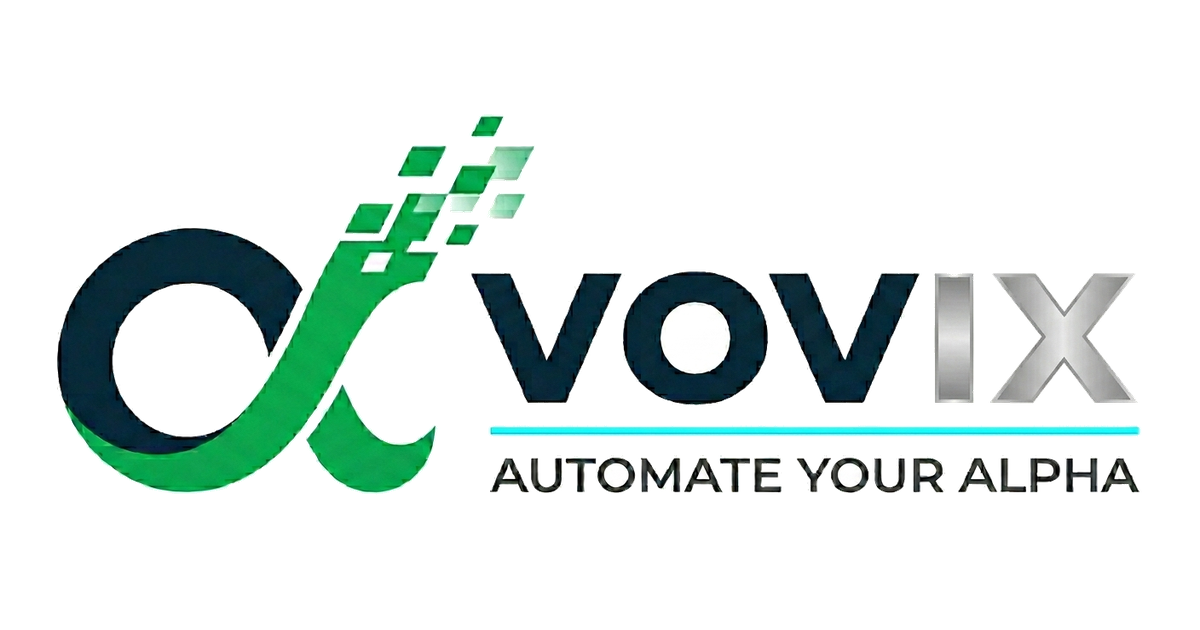
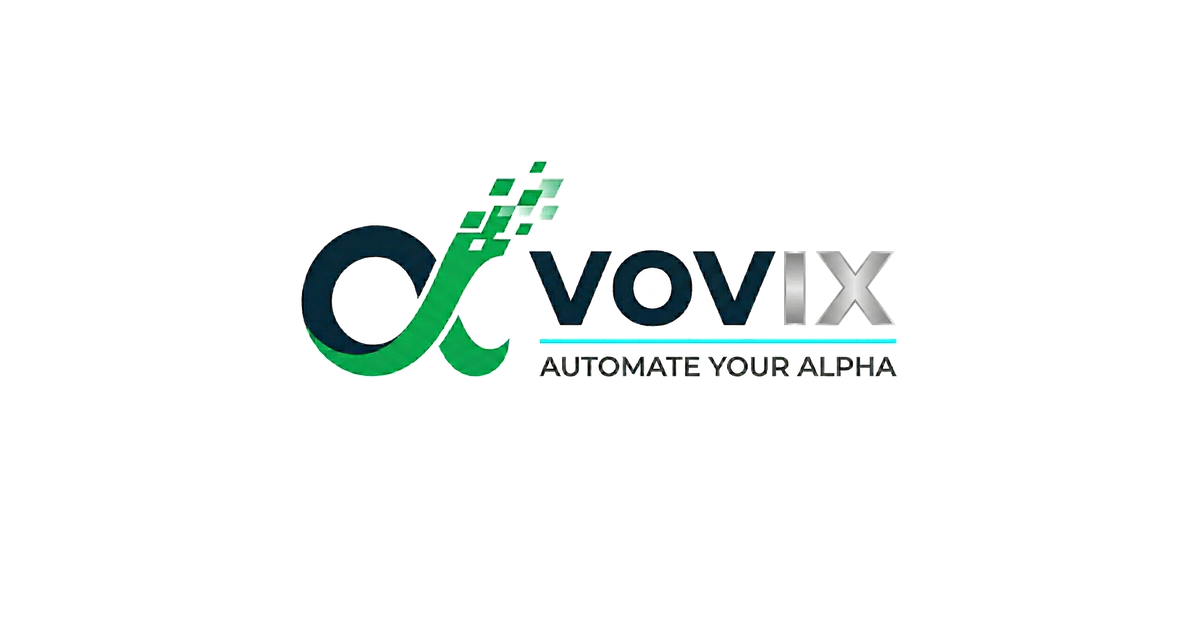
fix(seo): update social share image to 1200x630 with safe padding.
Point og/twitter image tags to the new og-image asset and adjust dimensions so logo is not clipped in URL previews.

Changed region(s): [[0.0308, 0.181, 0.9558, 0.7841], [0.4008, 0.7238, 0.9558, 0.7841]]

diff --git a/index.html b/index.html
@@ -11,16 +11,16 @@
     <meta property="og:type" content="website" />
     <meta property="og:site_name" content="Vovix" />
     <meta property="og:url" content="https://www.vovix.in/" />
-    <meta property="og:image" content="https://www.vovix.in/assets/logo-512.png" />
-    <meta property="og:image:secure_url" content="https://www.vovix.in/assets/logo-512.png" />
+    <meta property="og:image" content="https://www.vovix.in/assets/og-image.png" />
+    <meta property="og:image:secure_url" content="https://www.vovix.in/assets/og-image.png" />
     <meta property="og:image:type" content="image/png" />
-    <meta property="og:image:width" content="512" />
-    <meta property="og:image:height" content="512" />
+    <meta property="og:image:width" content="1200" />
+    <meta property="og:image:height" content="630" />
     <meta property="og:image:alt" content="Vovix Private Limited" />
     <meta name="twitter:card" content="summary_large_image" />
     <meta name="twitter:title" content="Vovix | Data provider &amp; automation agency" />
     <meta name="twitter:description" content="Web crawling at scale, intelligent OCR, WhatsApp-native stock research, and custom automation pipelines." />
-    <meta name="twitter:image" content="https://www.vovix.in/assets/logo-512.png" />
+    <meta name="twitter:image" content="https://www.vovix.in/assets/og-image.png" />
     <title>Vovix | Data Provider &amp; Automation Agency</title>
     <link rel="canonical" href="https://www.vovix.in/" />
     <link rel="icon" href="/assets/favicon.svg" type="image/svg+xml" />

diff --git a/legal/terms.html b/legal/terms.html
@@ -10,16 +10,16 @@
     <meta property="og:type" content="website" />
     <meta property="og:url" content="https://www.vovix.in/legal/terms.html" />
     <meta property="og:site_name" content="Vovix" />
-    <meta property="og:image" content="https://www.vovix.in/assets/logo-512.png" />
-    <meta property="og:image:secure_url" content="https://www.vovix.in/assets/logo-512.png" />
+    <meta property="og:image" content="https://www.vovix.in/assets/og-image.png" />
+    <meta property="og:image:secure_url" content="https://www.vovix.in/assets/og-image.png" />
     <meta property="og:image:type" content="image/png" />
-    <meta property="og:image:width" content="512" />
-    <meta property="og:image:height" content="512" />
+    <meta property="og:image:width" content="1200" />
+    <meta property="og:image:height" content="630" />
     <meta property="og:image:alt" content="Vovix Private Limited" />
     <meta name="twitter:card" content="summary_large_image" />
     <meta name="twitter:title" content="Terms of use | Vovix Private Limited" />
     <meta name="twitter:description" content="Terms of use | Vovix Private Limited corporate website." />
-    <meta name="twitter:image" content="https://www.vovix.in/assets/logo-512.png" />
+    <meta name="twitter:image" content="https://www.vovix.in/assets/og-image.png" />
     <title>Terms of use | Vovix Private Limited</title>
     <link rel="canonical" href="https://www.vovix.in/legal/terms.html" />
     <link rel="icon" href="/assets/favicon.svg" type="image/svg+xml" />

diff --git a/legal/privacy.html b/legal/privacy.html
@@ -10,16 +10,16 @@
     <meta property="og:type" content="website" />
     <meta property="og:url" content="https://www.vovix.in/legal/privacy.html" />
     <meta property="og:site_name" content="Vovix" />
-    <meta property="og:image" content="https://www.vovix.in/assets/logo-512.png" />
-    <meta property="og:image:secure_url" content="https://www.vovix.in/assets/logo-512.png" />
+    <meta property="og:image" content="https://www.vovix.in/assets/og-image.png" />
+    <meta property="og:image:secure_url" content="https://www.vovix.in/assets/og-image.png" />
     <meta property="og:image:type" content="image/png" />
-    <meta property="og:image:width" content="512" />
-    <meta property="og:image:height" content="512" />
+    <meta property="og:image:width" content="1200" />
+    <meta property="og:image:height" content="630" />
     <meta property="og:image:alt" content="Vovix Private Limited" />
     <meta name="twitter:card" content="summary_large_image" />
     <meta name="twitter:title" content="Privacy | Vovix Private Limited" />
     <meta name="twitter:description" content="Privacy policy | Vovix Private Limited corporate website." />
-    <meta name="twitter:image" content="https://www.vovix.in/assets/logo-512.png" />
+    <meta name="twitter:image" content="https://www.vovix.in/assets/og-image.png" />
     <title>Privacy | Vovix Private Limited</title>
     <link rel="canonical" href="https://www.vovix.in/legal/privacy.html" />
     <link rel="icon" href="/assets/favicon.svg" type="image/svg+xml" />

diff --git a/services.html b/services.html
@@ -10,10 +10,10 @@
     <meta property="og:type" content="website" />
     <meta property="og:url" content="https://www.vovix.in/services.html" />
     <meta property="og:site_name" content="Vovix" />
-    <meta property="og:image" content="https://www.vovix.in/assets/logo-512.png" />
+    <meta property="og:image" content="https://www.vovix.in/assets/og-image.png" />
     <meta name="twitter:card" content="summary_large_image" />
     <meta name="twitter:title" content="Services for businesses | Vovix" />
-    <meta name="twitter:image" content="https://www.vovix.in/assets/logo-512.png" />
+    <meta name="twitter:image" content="https://www.vovix.in/assets/og-image.png" />
     <title>Services for businesses | Vovix Private Limited</title>
     <link rel="canonical" href="https://www.vovix.in/services.html" />
     <link rel="icon" href="/assets/favicon.svg" type="image/svg+xml" />

diff --git a/market-news.html b/market-news.html
@@ -10,10 +10,10 @@
     <meta property="og:type" content="website" />
     <meta property="og:url" content="https://www.vovix.in/market-news.html" />
     <meta property="og:site_name" content="Vovix" />
-    <meta property="og:image" content="https://www.vovix.in/assets/logo-512.png" />
+    <meta property="og:image" content="https://www.vovix.in/assets/og-image.png" />
     <meta name="twitter:card" content="summary_large_image" />
     <meta name="twitter:title" content="Market news | Vovix Private Limited" />
-    <meta name="twitter:image" content="https://www.vovix.in/assets/logo-512.png" />
+    <meta name="twitter:image" content="https://www.vovix.in/assets/og-image.png" />
     <title>Market news | Vovix Private Limited</title>
     <link rel="canonical" href="https://www.vovix.in/market-news.html" />
     <link rel="icon" href="/assets/favicon.svg" type="image/svg+xml" />

diff --git a/about.html b/about.html
@@ -11,10 +11,10 @@
     <meta property="og:type" content="website" />
     <meta property="og:url" content="https://www.vovix.in/about.html" />
     <meta property="og:site_name" content="Vovix" />
-    <meta property="og:image" content="https://www.vovix.in/assets/logo-512.png" />
+    <meta property="og:image" content="https://www.vovix.in/assets/og-image.png" />
     <meta name="twitter:card" content="summary_large_image" />
     <meta name="twitter:title" content="About | Vovix Private Limited" />
-    <meta name="twitter:image" content="https://www.vovix.in/assets/logo-512.png" />
+    <meta name="twitter:image" content="https://www.vovix.in/assets/og-image.png" />
     <title>About | Vovix Private Limited</title>
     <link rel="canonical" href="https://www.vovix.in/about.html" />
     <link rel="icon" href="/assets/favicon.svg" type="image/svg+xml" />

diff --git a/products.html b/products.html
@@ -10,10 +10,10 @@
     <meta property="og:type" content="website" />
     <meta property="og:url" content="https://www.vovix.in/products.html" />
     <meta property="og:site_name" content="Vovix" />
-    <meta property="og:image" content="https://www.vovix.in/assets/logo-512.png" />
+    <meta property="og:image" content="https://www.vovix.in/assets/og-image.png" />
     <meta name="twitter:card" content="summary_large_image" />
     <meta name="twitter:title" content="Products | Vovix" />
-    <meta name="twitter:image" content="https://www.vovix.in/assets/logo-512.png" />
+    <meta name="twitter:image" content="https://www.vovix.in/assets/og-image.png" />
     <title>Products | Vovix Private Limited</title>
     <link rel="canonical" href="https://www.vovix.in/products.html" />
     <link rel="icon" href="/assets/favicon.svg" type="image/svg+xml" />

diff --git a/contact.html b/contact.html
@@ -10,10 +10,10 @@
     <meta property="og:type" content="website" />
     <meta property="og:url" content="https://www.vovix.in/contact.html" />
     <meta property="og:site_name" content="Vovix" />
-    <meta property="og:image" content="https://www.vovix.in/assets/logo-512.png" />
+    <meta property="og:image" content="https://www.vovix.in/assets/og-image.png" />
     <meta name="twitter:card" content="summary_large_image" />
     <meta name="twitter:title" content="Contact | Vovix" />
-    <meta name="twitter:image" content="https://www.vovix.in/assets/logo-512.png" />
+    <meta name="twitter:image" content="https://www.vovix.in/assets/og-image.png" />
     <title>Contact | Vovix Private Limited</title>
     <link rel="canonical" href="https://www.vovix.in/contact.html" />
     <link rel="icon" href="/assets/favicon.svg" type="image/svg+xml" />
